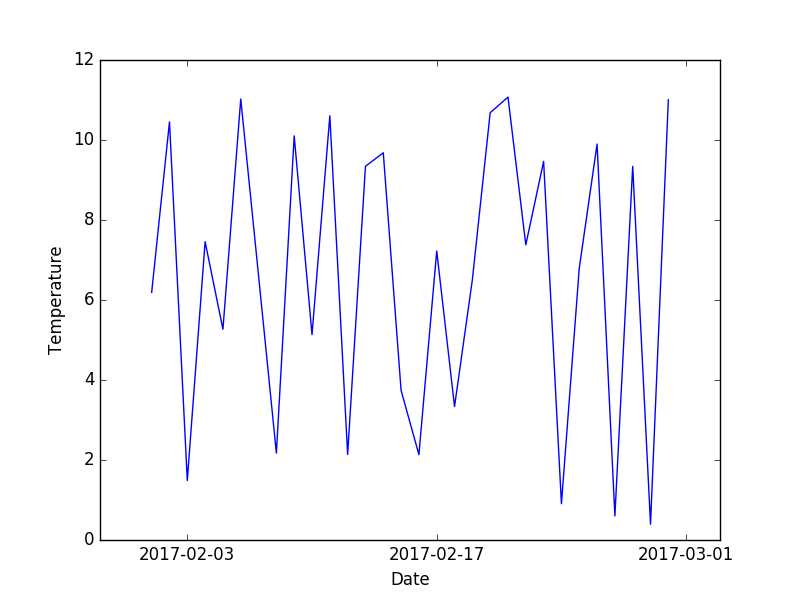
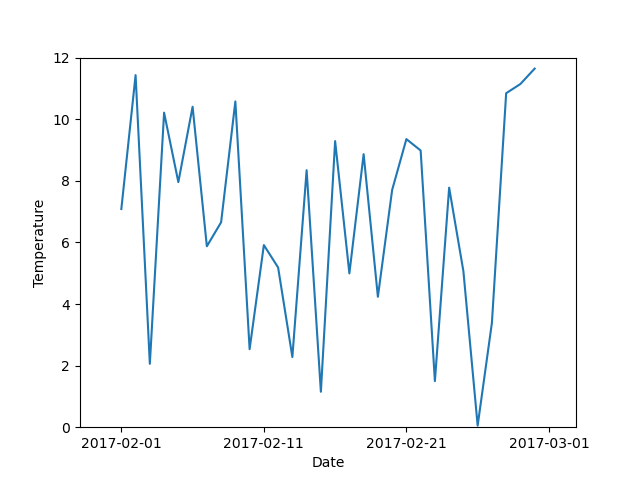
Add documentation badge and update example plot in README.md (#96)
* Add documentation badge and update example plot in README.md

* Fix example plot image

diff --git a/README.md b/README.md
@@ -10,6 +10,9 @@
   <img src="https://api.cirrus-ci.com/github/SciTools/nc-time-axis.svg?branch=main"
        alt="cirrus-ci">
 </a>
+<a href='https://nc-time-axis.readthedocs.io/en/stable/?badge=stable'>
+    <img src='https://readthedocs.org/projects/nc-time-axis/badge/?version=stable' alt='Documentation Status' />
+</a>
 <a href="https://codecov.io/gh/SciTools/nc-time-axis">
   <img src="https://codecov.io/gh/SciTools/nc-time-axis/branch/main/graph/badge.svg?token=JicwCCHwLd"
        alt="codecov">
